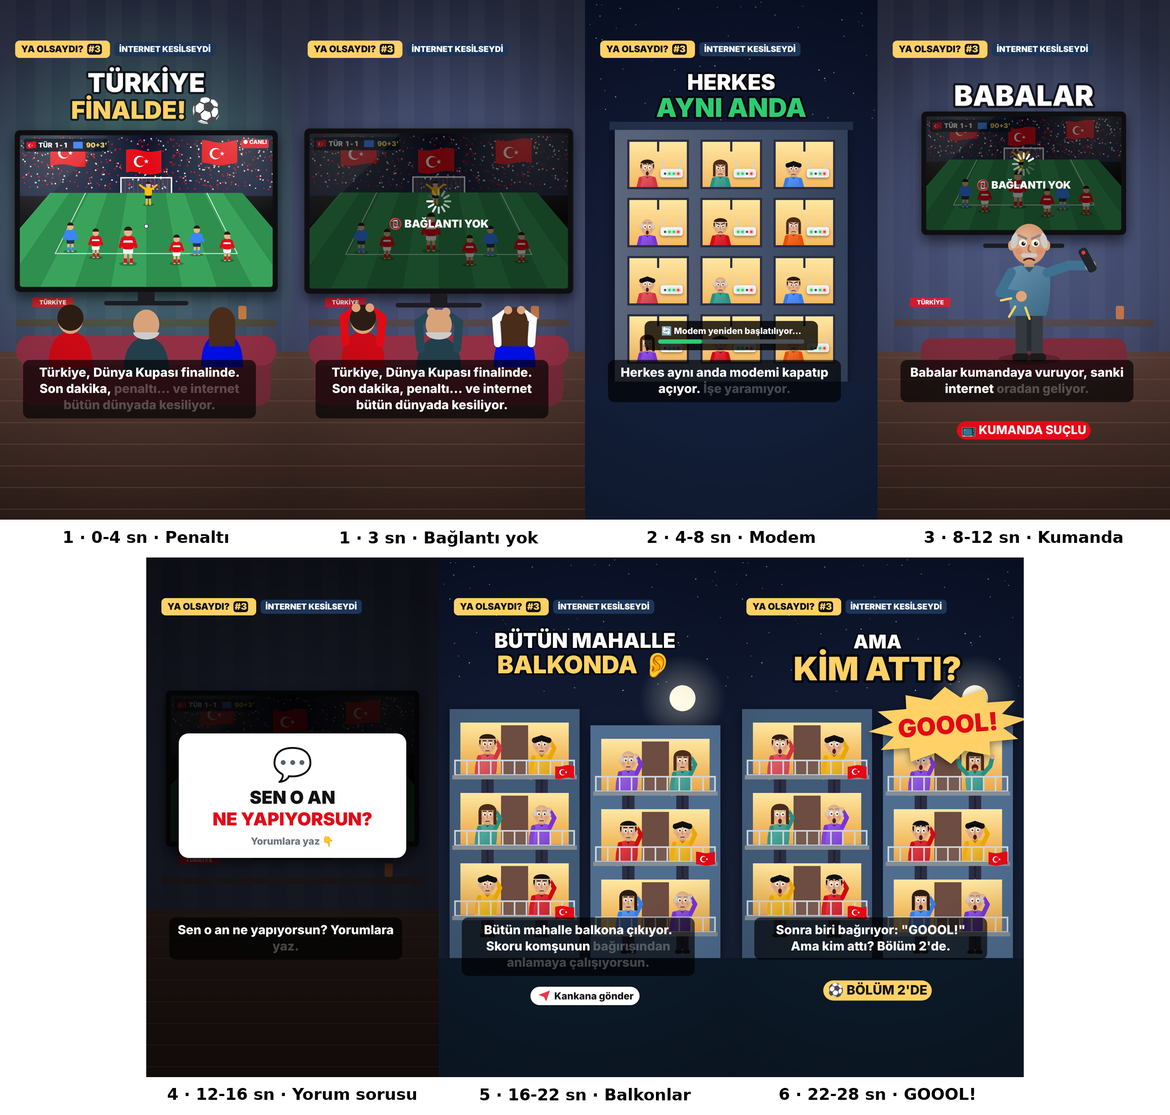
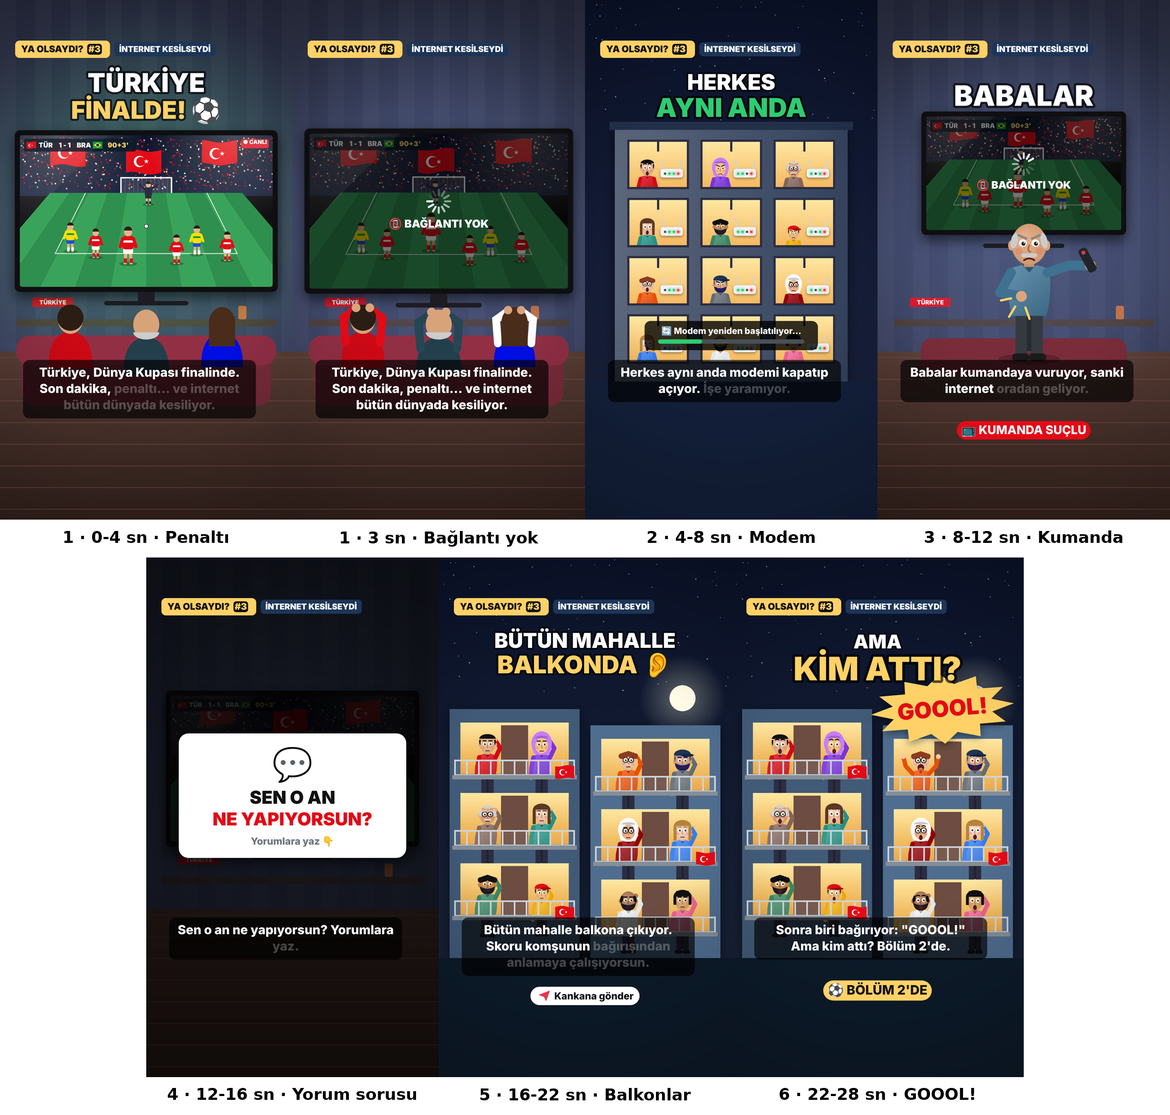
İnternet serisi Bölüm 1: 12 farklı komşu ve rakip Brezilya
Pencere ve balkonlarda her karakter farklı (başörtülü kadın, gözlüklü dede, kasketli çocuk, sakallı adam vb.); rakip Brezilya (sarı-mavi forma), skor tabelası TÜR 1-1 BRA.

Claude-Session: https://claude.ai/code/session_017TmNhrA7DRHRNUoeumaSBf

diff --git a/ya-olsaydi-internet/index1.html b/ya-olsaydi-internet/index1.html
@@ -808,10 +808,16 @@ function trFlag(x, y, w, h, wave = 0) {
   ctx.fill(); ctx.restore();
 }
 
+function brFlag(x, y, w, h) {
+  ctx.save(); ctx.translate(x, y); ctx.fillStyle = '#009c3b'; ctx.fillRect(0, 0, w, h);
+  ctx.fillStyle = '#ffdf00'; ctx.beginPath(); ctx.moveTo(w / 2, h * .12); ctx.lineTo(w * .92, h / 2); ctx.lineTo(w / 2, h * .88); ctx.lineTo(w * .08, h / 2); ctx.closePath(); ctx.fill();
+  ctx.fillStyle = '#002776'; ctx.beginPath(); ctx.arc(w / 2, h / 2, h * .22, 0, 7); ctx.fill(); ctx.restore();
+}
+
 // ---------- characters ----------
 // pose: down | handsHead | cupEar | shout | remote | hipsBack ; face: calm | shock | angry | shout | sleepy | happy
 function human(x, y, s, o = {}) {
-  const { shirt = '#2a9d8f', pants = '#2b2d42', skin = '#e9b48a', hair = '#2b1d14', hairStyle = 'short', face = 'calm', pose = 'down', beard = false, mustache = false, t = 0, bob = 0, shadow = true, flagShirt = false } = o;
+  const { shirt = '#2a9d8f', pants = '#2b2d42', skin = '#e9b48a', hair = '#2b1d14', hairStyle = 'short', face = 'calm', pose = 'down', beard = false, mustache = false, t = 0, bob = 0, shadow = true, flagShirt = false, glasses = false, cap = null, scarf = null } = o;
   ctx.save(); ctx.translate(x, y + Math.sin(t * 3 + bob) * 2); ctx.scale(s, s);
   if (shadow) { ctx.fillStyle = 'rgba(0,0,0,.22)'; ctx.beginPath(); ctx.ellipse(0, 128, 54, 10, 0, 0, 7); ctx.fill(); }
   // legs + shoes
@@ -854,10 +860,16 @@ function human(x, y, s, o = {}) {
   else if (hairStyle === 'bald') { ctx.beginPath(); ctx.ellipse(-26, -80, 6, 14, .2, 0, 7); ctx.ellipse(26, -80, 6, 14, -.2, 0, 7); ctx.fill(); }
   else if (hairStyle === 'long') { ctx.beginPath(); ctx.ellipse(0, -92, 34, 24, 0, Math.PI, 0); ctx.fill(); ctx.fillRect(-35, -92, 12, 56); ctx.fillRect(23, -92, 12, 56); }
   else if (hairStyle === 'curly') { for (let i = 0; i < 7; i++) { ctx.beginPath(); ctx.arc(-27 + i * 9, -100 + Math.abs(i - 3) * 3, 11, 0, 7); ctx.fill(); } }
+  else if (hairStyle === 'bob') { ctx.beginPath(); ctx.ellipse(0, -90, 35, 26, 0, Math.PI, 0); ctx.fill(); ctx.fillRect(-35, -92, 11, 34); ctx.fillRect(24, -92, 11, 34); ctx.fillRect(-24, -112, 48, 14); }
+  else if (hairStyle === 'grey') { ctx.beginPath(); ctx.ellipse(-27, -82, 7, 15, .2, 0, 7); ctx.ellipse(27, -82, 7, 15, -.2, 0, 7); ctx.fill(); ctx.beginPath(); ctx.ellipse(0, -104, 18, 6, 0, 0, 7); ctx.fill(); }
+  if (scarf) { ctx.fillStyle = scarf; ctx.beginPath(); ctx.ellipse(0, -80, 40, 46, 0, Math.PI * .92, Math.PI * 2.08); ctx.lineTo(30, -40); ctx.quadraticCurveTo(0, -26, -30, -40); ctx.fill();
+    ctx.fillStyle = skin; ctx.beginPath(); ctx.ellipse(0, -70, 25, 30, 0, 0, 7); ctx.fill(); ctx.fillStyle = shade(scarf, -.2); ctx.beginPath(); ctx.ellipse(0, -100, 27, 9, 0, Math.PI, 0); ctx.fill(); }
+  if (cap) { ctx.fillStyle = cap; ctx.beginPath(); ctx.ellipse(0, -98, 33, 20, 0, Math.PI, 0); ctx.fill(); ctx.fillRect(-33, -100, 66, 6); ctx.fillStyle = shade(cap, -.25); ctx.beginPath(); ctx.ellipse(18, -96, 26, 6, 0, 0, 7); ctx.fill(); }
   // face
   const eye = (ex, open = 1) => { ctx.fillStyle = '#fff'; ctx.beginPath(); ctx.ellipse(ex, -76, 7, 6 * open + .5, 0, 0, 7); ctx.fill(); if (open > .3) { ctx.fillStyle = '#2b1d14'; ctx.beginPath(); ctx.arc(ex + 1, -75, 3.6, 0, 7); ctx.fill(); ctx.fillStyle = '#fff'; ctx.beginPath(); ctx.arc(ex + 2.2, -76.4, 1.2, 0, 7); ctx.fill(); } };
   const big = face === 'shock' ? 1.35 : face === 'sleepy' ? .15 : 1;
   eye(-11, big); eye(11, big);
+  if (glasses) { ctx.strokeStyle = '#222'; ctx.lineWidth = 3; ctx.beginPath(); ctx.arc(-11, -76, 10, 0, 7); ctx.moveTo(21, -76); ctx.arc(11, -76, 10, 0, 7); ctx.moveTo(-1, -77); ctx.lineTo(1, -77); ctx.stroke(); }
   ctx.strokeStyle = shade(hair === '#ccc' ? '#888888' : hair, 0); ctx.lineWidth = 4; ctx.lineCap = 'round'; ctx.beginPath();
   if (face === 'angry') { ctx.moveTo(-19, -90); ctx.lineTo(-5, -84); ctx.moveTo(19, -90); ctx.lineTo(5, -84); }
   else if (face === 'shock') { ctx.moveTo(-18, -92); ctx.quadraticCurveTo(-11, -97, -4, -92); ctx.moveTo(18, -92); ctx.quadraticCurveTo(11, -97, 4, -92); }
@@ -888,6 +900,23 @@ function backHead(x, y, s, { shirt = '#264653', hair = '#2b1d14', hairStyle = 's
   if (pose === 'handsHead') { ctx.fillStyle = '#d9a37a'; ctx.beginPath(); ctx.arc(-22, -72, 14, 0, 7); ctx.arc(22, -72, 14, 0, 7); ctx.fill(); }
   ctx.restore();
 }
+
+// twelve different neighbours (used for the windows and the balconies)
+const CAST = [
+  { shirt: TR_RED, hair: '#111', hairStyle: 'short', skin: '#e9b48a' },                                   // young fan in the jersey
+  { shirt: '#8338ec', skin: '#f1c27d', scarf: '#c77dff' },                                                // woman in a headscarf
+  { shirt: '#8d6e63', hair: '#d0d0d0', hairStyle: 'grey', mustache: true, glasses: true, skin: '#e0a47a' }, // grandpa
+  { shirt: '#2a9d8f', hair: '#5a3825', hairStyle: 'long', skin: '#f3c9a5' },                              // teen girl
+  { shirt: '#40916c', hair: '#111', hairStyle: 'curly', beard: true, skin: '#c68642' },                    // bearded man
+  { shirt: '#ffb703', hair: '#3b2414', hairStyle: 'short', cap: TR_RED, skin: '#f1c27d', kid: true },       // kid with a cap
+  { shirt: '#fb5607', hair: '#8d3b20', hairStyle: 'curly', glasses: true, skin: '#f3c9a5' },               // woman, auburn curls
+  { shirt: '#6c757d', hair: '#555', hairStyle: 'short', cap: '#1d3557', beard: true, skin: '#d9a37a' },     // man in a cap
+  { shirt: '#9d0208', skin: '#e9b48a', scarf: '#f8f9fa', glasses: true },                                 // grandma, white scarf
+  { shirt: '#3a86ff', hair: '#b5833c', hairStyle: 'long', skin: '#f6d2b8' },                              // young man, long hair
+  { shirt: '#f8f9fa', hair: '#111', hairStyle: 'bald', beard: true, skin: '#b07a50' },                    // bald, black beard
+  { shirt: '#ff6b9a', hair: '#111', hairStyle: 'bob', skin: '#e0ac69' },                                  // girl with a bob
+];
+function castMember(i, x, y, s, extra) { const c = CAST[i % CAST.length]; human(x, y + (c.kid ? 20 * s : 0), s * (c.kid ? .82 : 1), { ...c, ...extra }); }
 
 // ---------- series badge ----------
 function badge() {
@@ -941,16 +970,17 @@ function broadcast(x, y, w, h, t, frozen) {
   ctx.strokeStyle = '#ffffff55'; ctx.lineWidth = 1; for (let i = 0; i <= 12; i++) { ctx.beginPath(); ctx.moveTo(w * .4 + i * w * .2 / 12, top - h * .1); ctx.lineTo(w * .4 + i * w * .2 / 12, top); ctx.stroke(); }
   ctx.strokeStyle = '#fff'; ctx.lineWidth = 5; ctx.beginPath(); ctx.moveTo(w * .4, top); ctx.lineTo(w * .4, top - h * .1); ctx.lineTo(w * .6, top - h * .1); ctx.lineTo(w * .6, top); ctx.stroke();
   // players
-  const TUR = { shirt: TR_RED, shorts: '#fff', socks: TR_RED, stripe: '#fff' }, OPP = { shirt: '#3a86ff', shorts: '#1d3557', socks: '#3a86ff' }, GK = { shirt: '#ffbe0b', shorts: '#111', socks: '#ffbe0b' };
+  const TUR = { shirt: TR_RED, shorts: '#fff', socks: TR_RED, stripe: '#fff' }, OPP = { shirt: '#ffdf00', shorts: '#1d4ed8', socks: '#fff', stripe: '#009c3b' }, GK = { shirt: '#2b2d42', shorts: '#2b2d42', socks: '#2b2d42' };
   player(w * .5 + (frozen ? -12 : Math.sin(t * 5) * 18), top - 4, 1.0, GK, t, 0, true);
   [[.2, .66, OPP], [.3, .7, TUR], [.7, .68, OPP], [.82, .72, TUR], [.62, .74, TUR]].forEach(([px, py, k]) => player(w * px, h * py, 1.25, k, t, 0));
   const run = frozen ? 1 : clamp(t / TL.freeze);
   player(lerp(w * .36, w * .47, run), lerp(h * .86, h * .62, run), 1.6, TUR, frozen ? 0 : t, frozen ? 0 : 1);
   ctx.fillStyle = '#fff'; ctx.beginPath(); ctx.arc(w * .5, h * .6, 7, 0, 7); ctx.fill(); ctx.strokeStyle = '#111'; ctx.lineWidth = 1.5; ctx.stroke();
   // score bug
-  ctx.save(); ctx.translate(14, 12); rr(0, 0, 300, 46, 8); ctx.fillStyle = '#0d1b2add'; ctx.fill();
-  trFlag(10, 11, 34, 24); ctx.fillStyle = '#fff'; font(900, 24); ctx.textAlign = 'left'; ctx.textBaseline = 'middle'; ctx.fillText('TÜR  1 - 1', 52, 24);
-  ctx.fillStyle = '#3a86ff'; ctx.fillRect(176, 11, 34, 24); ctx.fillStyle = '#ffd166'; ctx.fillText("90+3'", 222, 24); ctx.restore();
+  ctx.save(); ctx.translate(14, 12); rr(0, 0, 400, 46, 8); ctx.fillStyle = '#0d1b2add'; ctx.fill();
+  trFlag(10, 11, 34, 24); ctx.fillStyle = '#fff'; font(900, 24); ctx.textAlign = 'center'; ctx.textBaseline = 'middle';
+  ctx.fillText('TÜR', 78, 24); ctx.fillText('1 - 1', 146, 24); ctx.fillText('BRA', 214, 24);
+  brFlag(246, 11, 34, 24); ctx.fillStyle = '#ffd166'; ctx.fillText("90+3'", 336, 24); ctx.restore();
   if (!frozen) { ctx.fillStyle = '#e63946'; rr(w - 112, 14, 98, 32, 6); ctx.fill(); ctx.fillStyle = '#fff'; font(900, 20); ctx.textAlign = 'center'; ctx.fillText('● CANLI', w - 63, 31); }
   if (frozen) {
     ctx.fillStyle = 'rgba(0,0,0,.55)'; ctx.fillRect(0, 0, w, h);
@@ -1012,7 +1042,7 @@ function modemScene(t) {
     const x = 160 + c * 270, y = 520 + r * 215, w = 220, h = 175;
     const lg = ctx.createLinearGradient(x, y, x, y + h); lg.addColorStop(0, '#ffe8a3'); lg.addColorStop(1, '#f4b860'); ctx.fillStyle = lg; ctx.fillRect(x, y, w, h);
     ctx.save(); ctx.beginPath(); ctx.rect(x, y, w, h); ctx.clip();
-    human(x + 70, y + 160, .78, { shirt: ['#e63946', '#2a9d8f', '#3a86ff', '#8338ec', TR_RED, '#fb5607'][i % 6], hair: ['#2b1d14', '#4a2c1a', '#111', '#ccc'][i % 4], hairStyle: ['short', 'long', 'curly', 'bald'][i % 4], face: i % 3 ? 'angry' : 'shock', t, bob: i, shadow: false });
+    castMember(i, x + 70, y + 160, .78, { face: i % 3 ? 'angry' : 'shock', t, bob: i, shadow: false });
     modem(x + 160, y + 120, .9, t, i);
     ctx.restore();
     ctx.strokeStyle = '#2b2d42'; ctx.lineWidth = 8; ctx.strokeRect(x, y, w, h); ctx.beginPath(); ctx.moveTo(x + w / 2, y); ctx.lineTo(x + w / 2, y + 40); ctx.stroke();
@@ -1055,9 +1085,9 @@ function balcony(x, y, w, t, k, people, shoutIdx = -1, shoutOn = false) {
   const lg = ctx.createLinearGradient(x, y - 190, x, y); lg.addColorStop(0, '#ffe8a3'); lg.addColorStop(1, '#e9a23b');
   ctx.fillStyle = lg; ctx.fillRect(x + 20, y - 190, w - 40, 190);
   ctx.fillStyle = '#6d4c41'; ctx.fillRect(x + w / 2 - 50, y - 180, 100, 180);
-  people.forEach(([px, c, hs, hcol], i) => {
-    const me = shoutOn && k * 2 + i === shoutIdx;
-    human(x + px, y - 40, .95, { shirt: c, hair: hcol, hairStyle: hs, face: me ? 'shout' : shoutOn ? 'shock' : 'calm', pose: me ? 'shout' : 'cupEar', t, bob: k * 2 + i, shadow: false });
+  people.forEach((px, i) => {
+    const id = k * 2 + i, me = shoutOn && id === shoutIdx;
+    castMember(id, x + px, y - 40, .95, { face: me ? 'shout' : shoutOn ? 'shock' : 'calm', pose: me ? 'shout' : 'cupEar', t, bob: id, shadow: false });
   });
   ctx.fillStyle = 'rgba(255,255,255,.08)'; ctx.fillRect(x, y - 50, w, 54);
   ctx.strokeStyle = '#ced4da'; ctx.lineWidth = 6; ctx.strokeRect(x, y - 50, w, 54);
@@ -1070,13 +1100,12 @@ function balkonScene(t, shout) {
   for (let i = 0; i < 60; i++) { ctx.fillStyle = `rgba(255,255,255,${.3 + rnd(i + 4) * .5})`; ctx.beginPath(); ctx.arc(rnd(i) * W, rnd(i + 3) * 500, 1.5 + rnd(i + 8), 0, 7); ctx.fill(); }
   glow(900, 520, 160, 'rgba(255,255,220,A)', .35); ctx.fillStyle = '#fffbe6'; ctx.beginPath(); ctx.arc(900, 520, 48, 0, 7); ctx.fill();
   softShadow(() => { ctx.fillStyle = '#415a77'; ctx.fillRect(40, 560, 480, 920); ctx.fillStyle = '#4f6d8f'; ctx.fillRect(560, 620, 480, 860); }, 40, 'rgba(0,0,0,.5)', 10);
-  const P = [['#e63946', 'short', '#2b1d14'], ['#2a9d8f', 'long', '#4a2c1a'], ['#ffb703', 'curly', '#111'], ['#8338ec', 'bald', '#ccc'], [TR_RED, 'short', '#111'], ['#3a86ff', 'long', '#2b1d14']];
-  [[60, 800], [60, 1060], [60, 1320]].forEach(([x, y], k) => balcony(x, y, 440, t, k, [[120, ...P[k]], [320, ...P[(k + 2) % 6]]], 7, shout));
-  [[580, 860], [580, 1120], [580, 1380]].forEach(([x, y], k) => balcony(x, y, 440, t, k + 3, [[120, ...P[(k + 3) % 6]], [320, ...P[(k + 1) % 6]]], 7, shout));
+  [[60, 800], [60, 1060], [60, 1320]].forEach(([x, y], k) => balcony(x, y, 440, t, k, [120, 320], 6, shout));
+  [[580, 860], [580, 1120], [580, 1380]].forEach(([x, y], k) => balcony(x, y, 440, t, k + 3, [120, 320], 6, shout));
   ctx.fillStyle = '#0d1b2a'; ctx.fillRect(0, 1480, W, H - 1480);
   if (shout) {
     const p = clamp((t - TL.gol[0]) / .3);
-    ctx.save(); ctx.translate(800, 620); ctx.scale(lerp(.3, 1, backOut(p)), lerp(.3, 1, backOut(p))); ctx.rotate(-.08);
+    ctx.save(); ctx.translate(780, 560); ctx.scale(lerp(.3, 1, backOut(p)) * .9, lerp(.3, 1, backOut(p)) * .9); ctx.rotate(-.08);
     softShadow(() => { ctx.fillStyle = '#ffd166'; ctx.beginPath(); for (let i = 0; i < 24; i++) { const a = i / 24 * Math.PI * 2, r = i % 2 ? 150 : 210; ctx.lineTo(Math.cos(a) * r * 1.4, Math.sin(a) * r * .68); } ctx.closePath(); ctx.fill(); }, 30, 'rgba(0,0,0,.5)', 8);
     ctx.fillStyle = TR_RED; font(900, 92); ctx.textAlign = 'center'; ctx.textBaseline = 'middle'; ctx.fillText('GOOOL!', 0, 4);
     ctx.restore();

diff --git a/ya-olsaydi-internet/b1_scene.js b/ya-olsaydi-internet/b1_scene.js
@@ -31,10 +31,16 @@ function trFlag(x, y, w, h, wave = 0) {
   ctx.fill(); ctx.restore();
 }
 
+function brFlag(x, y, w, h) {
+  ctx.save(); ctx.translate(x, y); ctx.fillStyle = '#009c3b'; ctx.fillRect(0, 0, w, h);
+  ctx.fillStyle = '#ffdf00'; ctx.beginPath(); ctx.moveTo(w / 2, h * .12); ctx.lineTo(w * .92, h / 2); ctx.lineTo(w / 2, h * .88); ctx.lineTo(w * .08, h / 2); ctx.closePath(); ctx.fill();
+  ctx.fillStyle = '#002776'; ctx.beginPath(); ctx.arc(w / 2, h / 2, h * .22, 0, 7); ctx.fill(); ctx.restore();
+}
+
 // ---------- characters ----------
 // pose: down | handsHead | cupEar | shout | remote | hipsBack ; face: calm | shock | angry | shout | sleepy | happy
 function human(x, y, s, o = {}) {
-  const { shirt = '#2a9d8f', pants = '#2b2d42', skin = '#e9b48a', hair = '#2b1d14', hairStyle = 'short', face = 'calm', pose = 'down', beard = false, mustache = false, t = 0, bob = 0, shadow = true, flagShirt = false } = o;
+  const { shirt = '#2a9d8f', pants = '#2b2d42', skin = '#e9b48a', hair = '#2b1d14', hairStyle = 'short', face = 'calm', pose = 'down', beard = false, mustache = false, t = 0, bob = 0, shadow = true, flagShirt = false, glasses = false, cap = null, scarf = null } = o;
   ctx.save(); ctx.translate(x, y + Math.sin(t * 3 + bob) * 2); ctx.scale(s, s);
   if (shadow) { ctx.fillStyle = 'rgba(0,0,0,.22)'; ctx.beginPath(); ctx.ellipse(0, 128, 54, 10, 0, 0, 7); ctx.fill(); }
   // legs + shoes
@@ -77,10 +83,16 @@ function human(x, y, s, o = {}) {
   else if (hairStyle === 'bald') { ctx.beginPath(); ctx.ellipse(-26, -80, 6, 14, .2, 0, 7); ctx.ellipse(26, -80, 6, 14, -.2, 0, 7); ctx.fill(); }
   else if (hairStyle === 'long') { ctx.beginPath(); ctx.ellipse(0, -92, 34, 24, 0, Math.PI, 0); ctx.fill(); ctx.fillRect(-35, -92, 12, 56); ctx.fillRect(23, -92, 12, 56); }
   else if (hairStyle === 'curly') { for (let i = 0; i < 7; i++) { ctx.beginPath(); ctx.arc(-27 + i * 9, -100 + Math.abs(i - 3) * 3, 11, 0, 7); ctx.fill(); } }
+  else if (hairStyle === 'bob') { ctx.beginPath(); ctx.ellipse(0, -90, 35, 26, 0, Math.PI, 0); ctx.fill(); ctx.fillRect(-35, -92, 11, 34); ctx.fillRect(24, -92, 11, 34); ctx.fillRect(-24, -112, 48, 14); }
+  else if (hairStyle === 'grey') { ctx.beginPath(); ctx.ellipse(-27, -82, 7, 15, .2, 0, 7); ctx.ellipse(27, -82, 7, 15, -.2, 0, 7); ctx.fill(); ctx.beginPath(); ctx.ellipse(0, -104, 18, 6, 0, 0, 7); ctx.fill(); }
+  if (scarf) { ctx.fillStyle = scarf; ctx.beginPath(); ctx.ellipse(0, -80, 40, 46, 0, Math.PI * .92, Math.PI * 2.08); ctx.lineTo(30, -40); ctx.quadraticCurveTo(0, -26, -30, -40); ctx.fill();
+    ctx.fillStyle = skin; ctx.beginPath(); ctx.ellipse(0, -70, 25, 30, 0, 0, 7); ctx.fill(); ctx.fillStyle = shade(scarf, -.2); ctx.beginPath(); ctx.ellipse(0, -100, 27, 9, 0, Math.PI, 0); ctx.fill(); }
+  if (cap) { ctx.fillStyle = cap; ctx.beginPath(); ctx.ellipse(0, -98, 33, 20, 0, Math.PI, 0); ctx.fill(); ctx.fillRect(-33, -100, 66, 6); ctx.fillStyle = shade(cap, -.25); ctx.beginPath(); ctx.ellipse(18, -96, 26, 6, 0, 0, 7); ctx.fill(); }
   // face
   const eye = (ex, open = 1) => { ctx.fillStyle = '#fff'; ctx.beginPath(); ctx.ellipse(ex, -76, 7, 6 * open + .5, 0, 0, 7); ctx.fill(); if (open > .3) { ctx.fillStyle = '#2b1d14'; ctx.beginPath(); ctx.arc(ex + 1, -75, 3.6, 0, 7); ctx.fill(); ctx.fillStyle = '#fff'; ctx.beginPath(); ctx.arc(ex + 2.2, -76.4, 1.2, 0, 7); ctx.fill(); } };
   const big = face === 'shock' ? 1.35 : face === 'sleepy' ? .15 : 1;
   eye(-11, big); eye(11, big);
+  if (glasses) { ctx.strokeStyle = '#222'; ctx.lineWidth = 3; ctx.beginPath(); ctx.arc(-11, -76, 10, 0, 7); ctx.moveTo(21, -76); ctx.arc(11, -76, 10, 0, 7); ctx.moveTo(-1, -77); ctx.lineTo(1, -77); ctx.stroke(); }
   ctx.strokeStyle = shade(hair === '#ccc' ? '#888888' : hair, 0); ctx.lineWidth = 4; ctx.lineCap = 'round'; ctx.beginPath();
   if (face === 'angry') { ctx.moveTo(-19, -90); ctx.lineTo(-5, -84); ctx.moveTo(19, -90); ctx.lineTo(5, -84); }
   else if (face === 'shock') { ctx.moveTo(-18, -92); ctx.quadraticCurveTo(-11, -97, -4, -92); ctx.moveTo(18, -92); ctx.quadraticCurveTo(11, -97, 4, -92); }
@@ -111,6 +123,23 @@ function backHead(x, y, s, { shirt = '#264653', hair = '#2b1d14', hairStyle = 's
   if (pose === 'handsHead') { ctx.fillStyle = '#d9a37a'; ctx.beginPath(); ctx.arc(-22, -72, 14, 0, 7); ctx.arc(22, -72, 14, 0, 7); ctx.fill(); }
   ctx.restore();
 }
+
+// twelve different neighbours (used for the windows and the balconies)
+const CAST = [
+  { shirt: TR_RED, hair: '#111', hairStyle: 'short', skin: '#e9b48a' },                                   // young fan in the jersey
+  { shirt: '#8338ec', skin: '#f1c27d', scarf: '#c77dff' },                                                // woman in a headscarf
+  { shirt: '#8d6e63', hair: '#d0d0d0', hairStyle: 'grey', mustache: true, glasses: true, skin: '#e0a47a' }, // grandpa
+  { shirt: '#2a9d8f', hair: '#5a3825', hairStyle: 'long', skin: '#f3c9a5' },                              // teen girl
+  { shirt: '#40916c', hair: '#111', hairStyle: 'curly', beard: true, skin: '#c68642' },                    // bearded man
+  { shirt: '#ffb703', hair: '#3b2414', hairStyle: 'short', cap: TR_RED, skin: '#f1c27d', kid: true },       // kid with a cap
+  { shirt: '#fb5607', hair: '#8d3b20', hairStyle: 'curly', glasses: true, skin: '#f3c9a5' },               // woman, auburn curls
+  { shirt: '#6c757d', hair: '#555', hairStyle: 'short', cap: '#1d3557', beard: true, skin: '#d9a37a' },     // man in a cap
+  { shirt: '#9d0208', skin: '#e9b48a', scarf: '#f8f9fa', glasses: true },                                 // grandma, white scarf
+  { shirt: '#3a86ff', hair: '#b5833c', hairStyle: 'long', skin: '#f6d2b8' },                              // young man, long hair
+  { shirt: '#f8f9fa', hair: '#111', hairStyle: 'bald', beard: true, skin: '#b07a50' },                    // bald, black beard
+  { shirt: '#ff6b9a', hair: '#111', hairStyle: 'bob', skin: '#e0ac69' },                                  // girl with a bob
+];
+function castMember(i, x, y, s, extra) { const c = CAST[i % CAST.length]; human(x, y + (c.kid ? 20 * s : 0), s * (c.kid ? .82 : 1), { ...c, ...extra }); }
 
 // ---------- series badge ----------
 function badge() {
@@ -164,16 +193,17 @@ function broadcast(x, y, w, h, t, frozen) {
   ctx.strokeStyle = '#ffffff55'; ctx.lineWidth = 1; for (let i = 0; i <= 12; i++) { ctx.beginPath(); ctx.moveTo(w * .4 + i * w * .2 / 12, top - h * .1); ctx.lineTo(w * .4 + i * w * .2 / 12, top); ctx.stroke(); }
   ctx.strokeStyle = '#fff'; ctx.lineWidth = 5; ctx.beginPath(); ctx.moveTo(w * .4, top); ctx.lineTo(w * .4, top - h * .1); ctx.lineTo(w * .6, top - h * .1); ctx.lineTo(w * .6, top); ctx.stroke();
   // players
-  const TUR = { shirt: TR_RED, shorts: '#fff', socks: TR_RED, stripe: '#fff' }, OPP = { shirt: '#3a86ff', shorts: '#1d3557', socks: '#3a86ff' }, GK = { shirt: '#ffbe0b', shorts: '#111', socks: '#ffbe0b' };
+  const TUR = { shirt: TR_RED, shorts: '#fff', socks: TR_RED, stripe: '#fff' }, OPP = { shirt: '#ffdf00', shorts: '#1d4ed8', socks: '#fff', stripe: '#009c3b' }, GK = { shirt: '#2b2d42', shorts: '#2b2d42', socks: '#2b2d42' };
   player(w * .5 + (frozen ? -12 : Math.sin(t * 5) * 18), top - 4, 1.0, GK, t, 0, true);
   [[.2, .66, OPP], [.3, .7, TUR], [.7, .68, OPP], [.82, .72, TUR], [.62, .74, TUR]].forEach(([px, py, k]) => player(w * px, h * py, 1.25, k, t, 0));
   const run = frozen ? 1 : clamp(t / TL.freeze);
   player(lerp(w * .36, w * .47, run), lerp(h * .86, h * .62, run), 1.6, TUR, frozen ? 0 : t, frozen ? 0 : 1);
   ctx.fillStyle = '#fff'; ctx.beginPath(); ctx.arc(w * .5, h * .6, 7, 0, 7); ctx.fill(); ctx.strokeStyle = '#111'; ctx.lineWidth = 1.5; ctx.stroke();
   // score bug
-  ctx.save(); ctx.translate(14, 12); rr(0, 0, 300, 46, 8); ctx.fillStyle = '#0d1b2add'; ctx.fill();
-  trFlag(10, 11, 34, 24); ctx.fillStyle = '#fff'; font(900, 24); ctx.textAlign = 'left'; ctx.textBaseline = 'middle'; ctx.fillText('TÜR  1 - 1', 52, 24);
-  ctx.fillStyle = '#3a86ff'; ctx.fillRect(176, 11, 34, 24); ctx.fillStyle = '#ffd166'; ctx.fillText("90+3'", 222, 24); ctx.restore();
+  ctx.save(); ctx.translate(14, 12); rr(0, 0, 400, 46, 8); ctx.fillStyle = '#0d1b2add'; ctx.fill();
+  trFlag(10, 11, 34, 24); ctx.fillStyle = '#fff'; font(900, 24); ctx.textAlign = 'center'; ctx.textBaseline = 'middle';
+  ctx.fillText('TÜR', 78, 24); ctx.fillText('1 - 1', 146, 24); ctx.fillText('BRA', 214, 24);
+  brFlag(246, 11, 34, 24); ctx.fillStyle = '#ffd166'; ctx.fillText("90+3'", 336, 24); ctx.restore();
   if (!frozen) { ctx.fillStyle = '#e63946'; rr(w - 112, 14, 98, 32, 6); ctx.fill(); ctx.fillStyle = '#fff'; font(900, 20); ctx.textAlign = 'center'; ctx.fillText('● CANLI', w - 63, 31); }
   if (frozen) {
     ctx.fillStyle = 'rgba(0,0,0,.55)'; ctx.fillRect(0, 0, w, h);
@@ -235,7 +265,7 @@ function modemScene(t) {
     const x = 160 + c * 270, y = 520 + r * 215, w = 220, h = 175;
     const lg = ctx.createLinearGradient(x, y, x, y + h); lg.addColorStop(0, '#ffe8a3'); lg.addColorStop(1, '#f4b860'); ctx.fillStyle = lg; ctx.fillRect(x, y, w, h);
     ctx.save(); ctx.beginPath(); ctx.rect(x, y, w, h); ctx.clip();
-    human(x + 70, y + 160, .78, { shirt: ['#e63946', '#2a9d8f', '#3a86ff', '#8338ec', TR_RED, '#fb5607'][i % 6], hair: ['#2b1d14', '#4a2c1a', '#111', '#ccc'][i % 4], hairStyle: ['short', 'long', 'curly', 'bald'][i % 4], face: i % 3 ? 'angry' : 'shock', t, bob: i, shadow: false });
+    castMember(i, x + 70, y + 160, .78, { face: i % 3 ? 'angry' : 'shock', t, bob: i, shadow: false });
     modem(x + 160, y + 120, .9, t, i);
     ctx.restore();
     ctx.strokeStyle = '#2b2d42'; ctx.lineWidth = 8; ctx.strokeRect(x, y, w, h); ctx.beginPath(); ctx.moveTo(x + w / 2, y); ctx.lineTo(x + w / 2, y + 40); ctx.stroke();
@@ -278,9 +308,9 @@ function balcony(x, y, w, t, k, people, shoutIdx = -1, shoutOn = false) {
   const lg = ctx.createLinearGradient(x, y - 190, x, y); lg.addColorStop(0, '#ffe8a3'); lg.addColorStop(1, '#e9a23b');
   ctx.fillStyle = lg; ctx.fillRect(x + 20, y - 190, w - 40, 190);
   ctx.fillStyle = '#6d4c41'; ctx.fillRect(x + w / 2 - 50, y - 180, 100, 180);
-  people.forEach(([px, c, hs, hcol], i) => {
-    const me = shoutOn && k * 2 + i === shoutIdx;
-    human(x + px, y - 40, .95, { shirt: c, hair: hcol, hairStyle: hs, face: me ? 'shout' : shoutOn ? 'shock' : 'calm', pose: me ? 'shout' : 'cupEar', t, bob: k * 2 + i, shadow: false });
+  people.forEach((px, i) => {
+    const id = k * 2 + i, me = shoutOn && id === shoutIdx;
+    castMember(id, x + px, y - 40, .95, { face: me ? 'shout' : shoutOn ? 'shock' : 'calm', pose: me ? 'shout' : 'cupEar', t, bob: id, shadow: false });
   });
   ctx.fillStyle = 'rgba(255,255,255,.08)'; ctx.fillRect(x, y - 50, w, 54);
   ctx.strokeStyle = '#ced4da'; ctx.lineWidth = 6; ctx.strokeRect(x, y - 50, w, 54);
@@ -293,13 +323,12 @@ function balkonScene(t, shout) {
   for (let i = 0; i < 60; i++) { ctx.fillStyle = `rgba(255,255,255,${.3 + rnd(i + 4) * .5})`; ctx.beginPath(); ctx.arc(rnd(i) * W, rnd(i + 3) * 500, 1.5 + rnd(i + 8), 0, 7); ctx.fill(); }
   glow(900, 520, 160, 'rgba(255,255,220,A)', .35); ctx.fillStyle = '#fffbe6'; ctx.beginPath(); ctx.arc(900, 520, 48, 0, 7); ctx.fill();
   softShadow(() => { ctx.fillStyle = '#415a77'; ctx.fillRect(40, 560, 480, 920); ctx.fillStyle = '#4f6d8f'; ctx.fillRect(560, 620, 480, 860); }, 40, 'rgba(0,0,0,.5)', 10);
-  const P = [['#e63946', 'short', '#2b1d14'], ['#2a9d8f', 'long', '#4a2c1a'], ['#ffb703', 'curly', '#111'], ['#8338ec', 'bald', '#ccc'], [TR_RED, 'short', '#111'], ['#3a86ff', 'long', '#2b1d14']];
-  [[60, 800], [60, 1060], [60, 1320]].forEach(([x, y], k) => balcony(x, y, 440, t, k, [[120, ...P[k]], [320, ...P[(k + 2) % 6]]], 7, shout));
-  [[580, 860], [580, 1120], [580, 1380]].forEach(([x, y], k) => balcony(x, y, 440, t, k + 3, [[120, ...P[(k + 3) % 6]], [320, ...P[(k + 1) % 6]]], 7, shout));
+  [[60, 800], [60, 1060], [60, 1320]].forEach(([x, y], k) => balcony(x, y, 440, t, k, [120, 320], 6, shout));
+  [[580, 860], [580, 1120], [580, 1380]].forEach(([x, y], k) => balcony(x, y, 440, t, k + 3, [120, 320], 6, shout));
   ctx.fillStyle = '#0d1b2a'; ctx.fillRect(0, 1480, W, H - 1480);
   if (shout) {
     const p = clamp((t - TL.gol[0]) / .3);
-    ctx.save(); ctx.translate(800, 620); ctx.scale(lerp(.3, 1, backOut(p)), lerp(.3, 1, backOut(p))); ctx.rotate(-.08);
+    ctx.save(); ctx.translate(780, 560); ctx.scale(lerp(.3, 1, backOut(p)) * .9, lerp(.3, 1, backOut(p)) * .9); ctx.rotate(-.08);
     softShadow(() => { ctx.fillStyle = '#ffd166'; ctx.beginPath(); for (let i = 0; i < 24; i++) { const a = i / 24 * Math.PI * 2, r = i % 2 ? 150 : 210; ctx.lineTo(Math.cos(a) * r * 1.4, Math.sin(a) * r * .68); } ctx.closePath(); ctx.fill(); }, 30, 'rgba(0,0,0,.5)', 8);
     ctx.fillStyle = TR_RED; font(900, 92); ctx.textAlign = 'center'; ctx.textBaseline = 'middle'; ctx.fillText('GOOOL!', 0, 4);
     ctx.restore();
